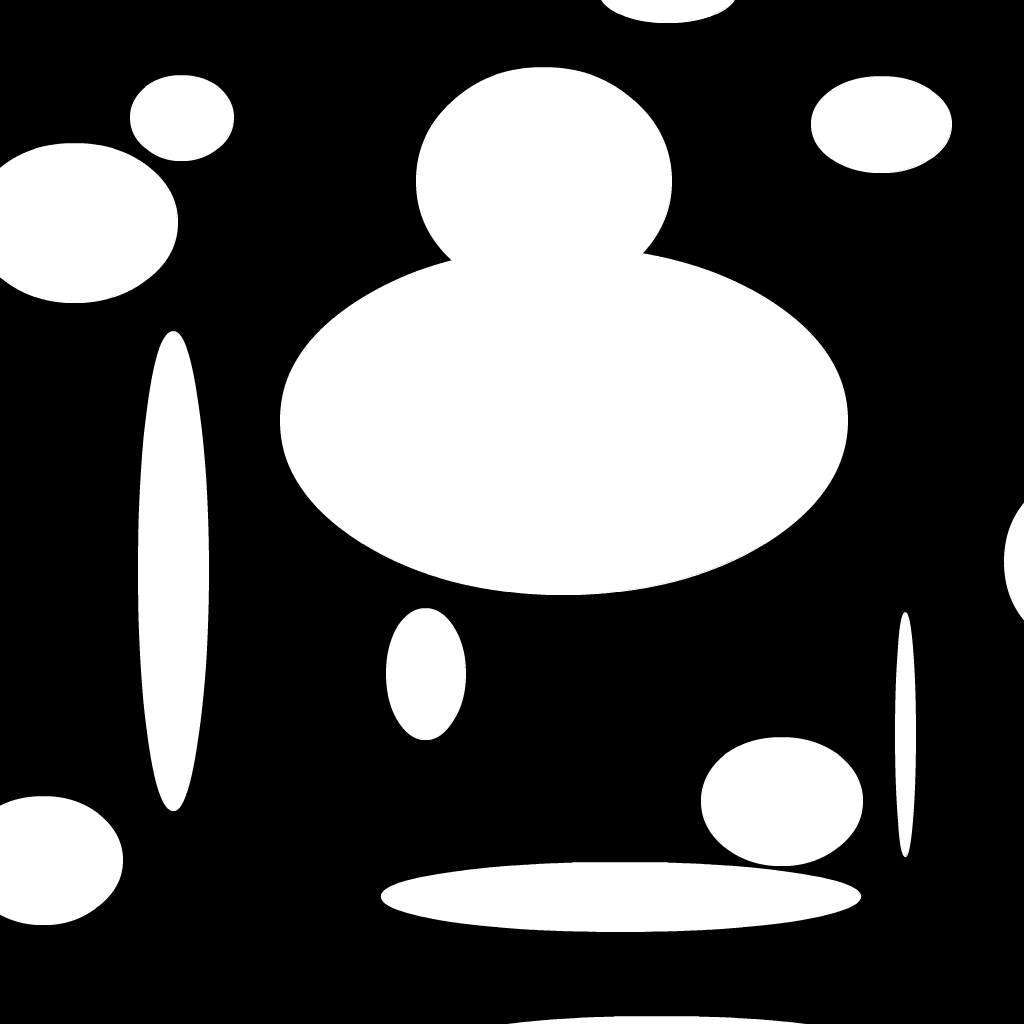
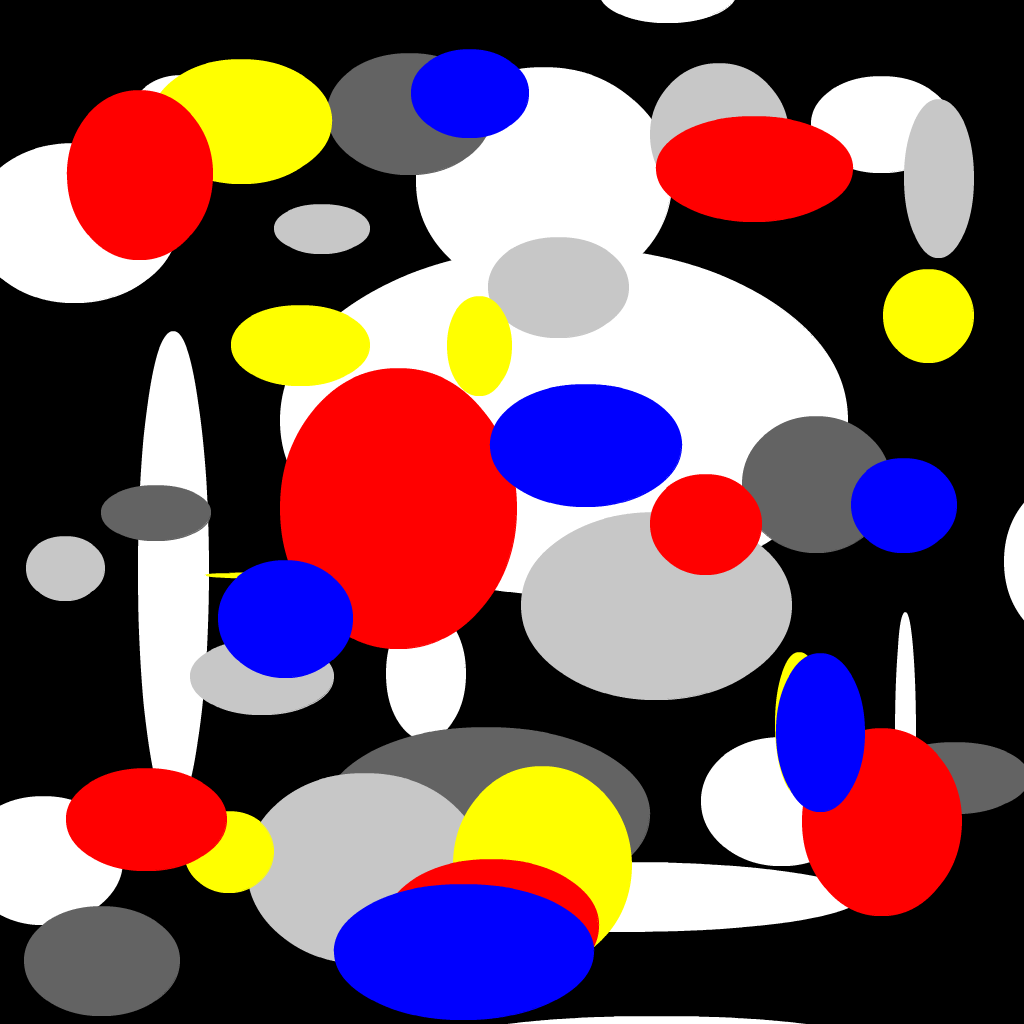
Replaced bloom texture. Modified bloom shader

diff --git a/LearnGL2/Renderer16.cpp b/LearnGL2/Renderer16.cpp
@@ -48,6 +48,9 @@ void Renderer16::Render() const
     glClearColor(0.0f, 0.0f, 0.0f, 1.0f);
     glClear(GL_COLOR_BUFFER_BIT | GL_DEPTH_BUFFER_BIT);
     
+    glUseProgram(m_textureProgram);
+    glUniform1f(m_uniformTextureThreshold, 0.0f);
+    
     DrawTexture();
     
     glClear(GL_DEPTH_BUFFER_BIT);
@@ -77,6 +80,8 @@ void Renderer16::BuildTextureProgram()
     
     m_attribTexturePosition = glGetAttribLocation(m_textureProgram, "a_position");
     m_attribTextureCoord = glGetAttribLocation(m_textureProgram, "a_texCoord");
+    
+    m_uniformTextureThreshold = glGetUniformLocation(m_textureProgram, "u_threshold");
 }
 
 void Renderer16::BuildSurfaceProgram()

diff --git a/LearnGL2/Renderer16.h b/LearnGL2/Renderer16.h
@@ -43,6 +43,7 @@ private:
     GLint m_attribSurfaceSourceColor;
     GLint m_attribSurfaceNormal;
     
+    GLuint m_uniformTextureThreshold;
     GLuint m_uniformSurfaceProjection;
     GLuint m_uniformSurfaceModelview;
     GLuint m_uniformSurfaceNormalMatrix;
